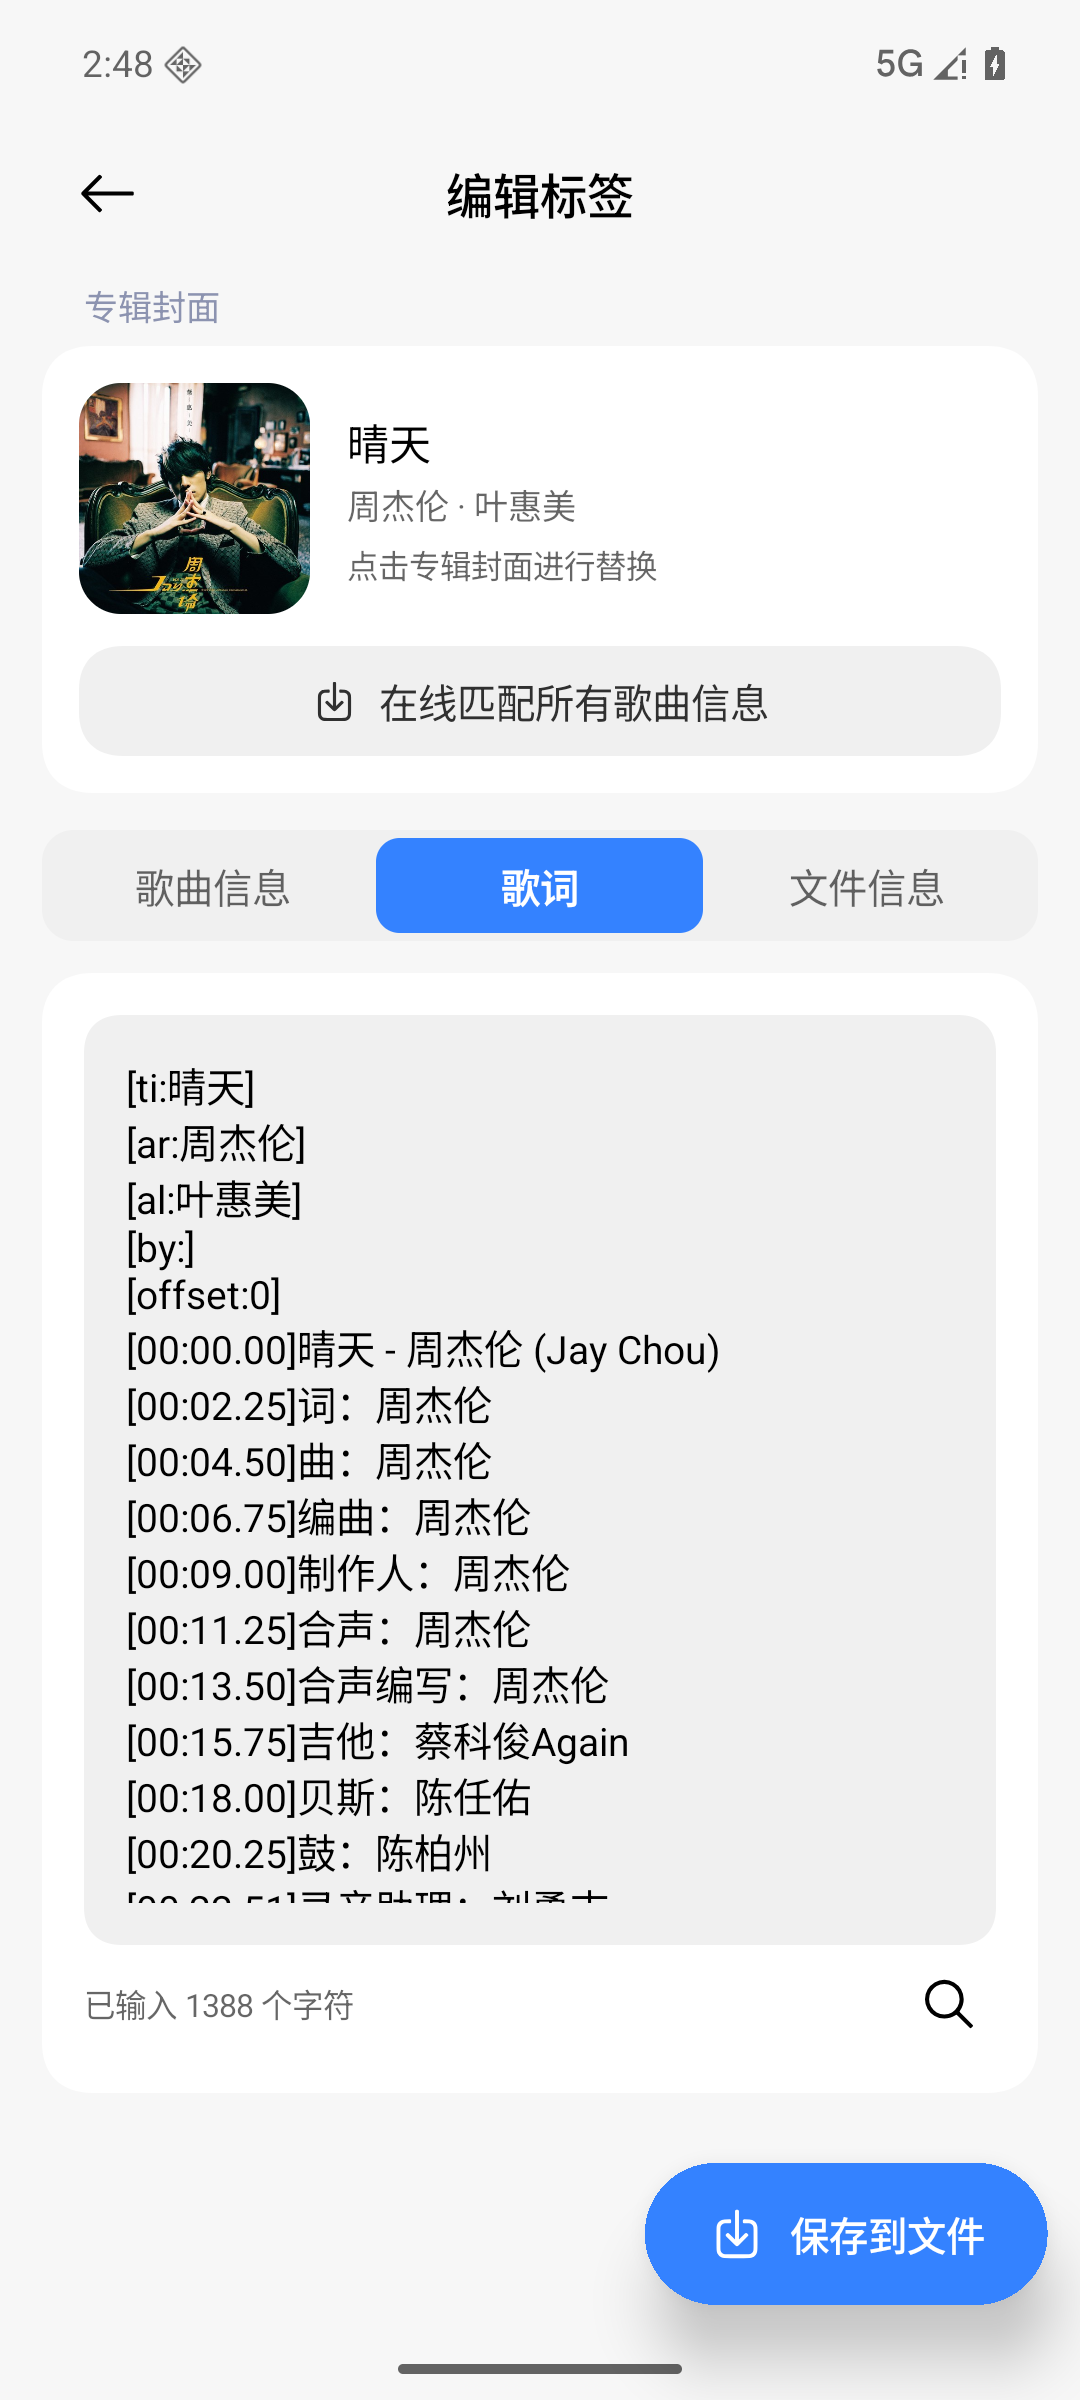
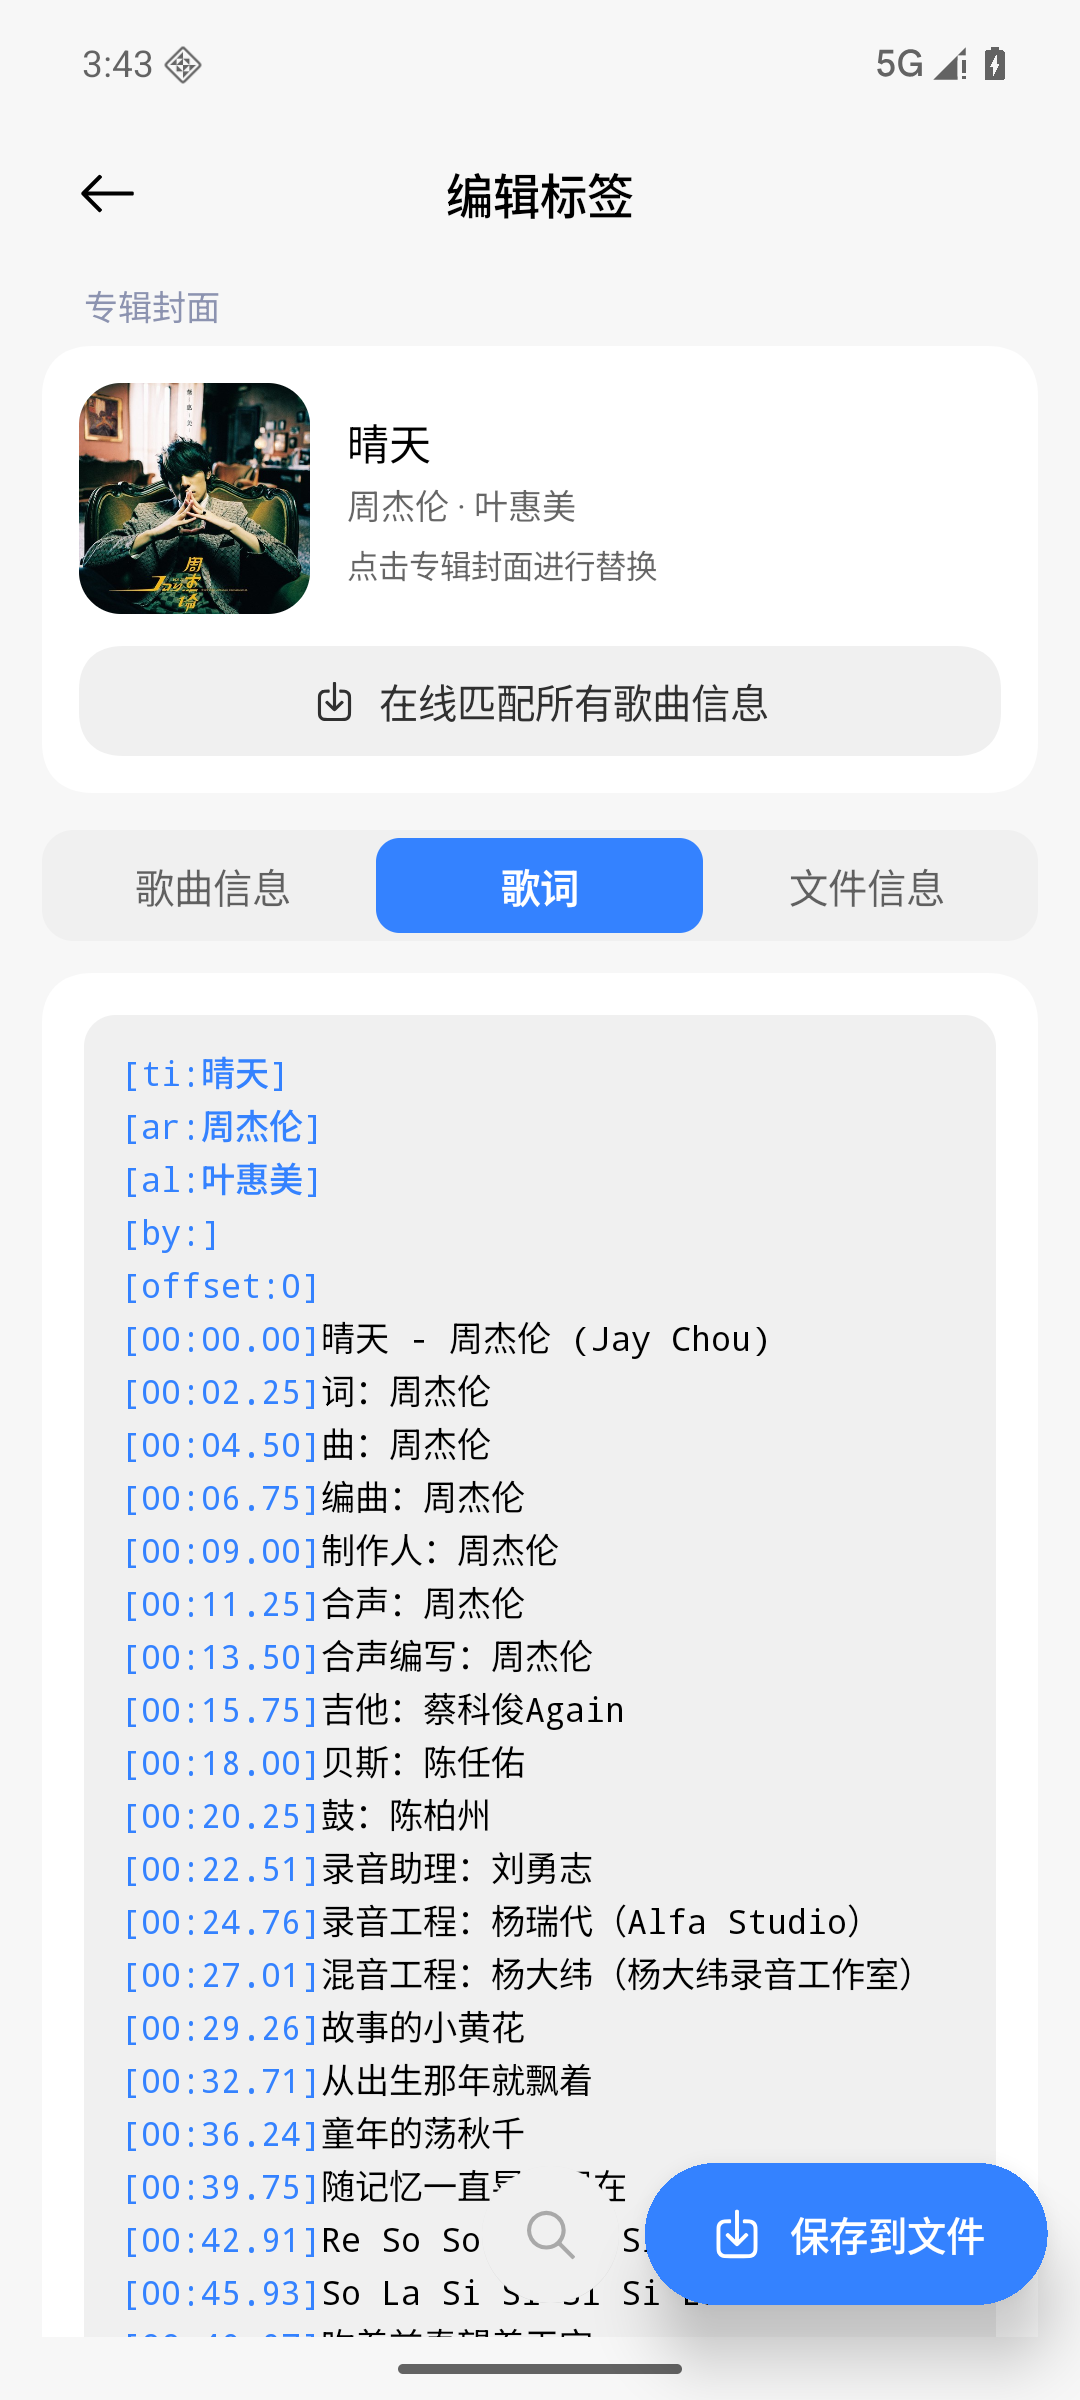
v1.2.0：歌词编辑器等宽高亮自动增高，搜索改为悬浮 FAB
- 歌词输入框改为自绘 BasicTextField：等宽字体、随行数自动增高、[] 内容高亮、聚焦描边
- 歌词 Tab 下保存 FAB 左侧新增圆形搜索 FAB，其他 Tab 隐藏
- 版本 1.2.0 / versionCode 3，更新截图、README、验证报告与发布说明

diff --git a/app/src/main/java/com/musictag/app/ui/editor/EditorScreen.kt b/app/src/main/java/com/musictag/app/ui/editor/EditorScreen.kt
@@ -1,4 +1,4 @@
-package com.musictag.app.ui.editor
+package com.musictag.app.ui.editor
 
 import android.graphics.Bitmap
 import android.net.Uri
@@ -20,6 +20,7 @@ import androidx.compose.foundation.layout.padding
 import androidx.compose.foundation.layout.size
 import androidx.compose.foundation.layout.width
 import androidx.compose.foundation.lazy.LazyColumn
+import androidx.compose.foundation.shape.CircleShape
 import androidx.compose.foundation.shape.RoundedCornerShape
 import androidx.compose.runtime.Composable
 import androidx.compose.runtime.LaunchedEffect
@@ -43,6 +44,7 @@ import com.musictag.app.ui.components.ArtworkCard
 import com.musictag.app.ui.components.ErrorState
 import com.musictag.app.ui.components.InfoRow
 import com.musictag.app.ui.components.LoadingState
+import com.musictag.app.ui.components.LyricsTextField
 import com.musictag.app.ui.components.MiuixExtendedFloatingActionButton
 import com.musictag.app.ui.components.MiuixSegmentedControl
 import com.musictag.app.ui.components.MusicTagTextField
@@ -60,6 +62,7 @@ import top.yukonga.miuix.kmp.basic.SmallTitle
 import top.yukonga.miuix.kmp.basic.SmallTopAppBar
 import top.yukonga.miuix.kmp.basic.SnackbarHost
 import top.yukonga.miuix.kmp.basic.SnackbarHostState
+import top.yukonga.miuix.kmp.basic.Surface
 import top.yukonga.miuix.kmp.basic.Text
 import top.yukonga.miuix.kmp.basic.TextButton
 import top.yukonga.miuix.kmp.overlay.OverlayDialog
@@ -151,18 +154,26 @@ fun EditorScreen(
         },
         floatingActionButton = {
             if (state.track != null) {
-                MiuixExtendedFloatingActionButton(
-                    text = if (state.saving) "保存中…" else "保存到文件",
-                    onClick = {
-                        if (state.hasChanges) {
-                            viewModel.save()
-                        } else {
-                            scope.launch { snackbarHostState.showSnackbar("没有需要保存的修改") }
-                        }
-                    },
-                    enabled = !state.saving,
-                    icon = MiuixIcons.Download,
-                )
+                Row(
+                    verticalAlignment = Alignment.CenterVertically,
+                    horizontalArrangement = Arrangement.spacedBy(10.dp),
+                ) {
+                    if (selectedTab == 1) {
+                        LyricsSearchFab(onClick = viewModel::openSearch)
+                    }
+                    MiuixExtendedFloatingActionButton(
+                        text = if (state.saving) "保存中…" else "保存到文件",
+                        onClick = {
+                            if (state.hasChanges) {
+                                viewModel.save()
+                            } else {
+                                scope.launch { snackbarHostState.showSnackbar("没有需要保存的修改") }
+                            }
+                        },
+                        enabled = !state.saving,
+                        icon = MiuixIcons.Download,
+                    )
+                }
             }
         },
         floatingActionButtonPosition = FabPosition.End,
@@ -319,37 +330,16 @@ fun EditorScreen(
 
                             1 -> item(key = "lyrics") {
                                 EditorTabCard {
-                                    MusicTagTextField(
+                                    LyricsTextField(
                                         value = state.fields.lyrics,
                                         onValueChange = { viewModel.updateField(EditorField.LYRICS, it) },
-                                        label = "歌词内容",
-                                        singleLine = false,
-                                        minLines = 8,
-                                        maxLines = 18,
-                                        hideLabel = true,
                                     )
-                                    Spacer(Modifier.height(4.dp))
-                                    Row(
-                                        modifier = Modifier.fillMaxWidth(),
-                                        verticalAlignment = Alignment.CenterVertically,
-                                    ) {
-                                        Text(
-                                            text = "已输入 ${state.fields.lyrics.length} 个字符",
-                                            style = MiuixTheme.textStyles.footnote1,
-                                            color = MiuixTheme.colorScheme.onSurfaceVariantSummary,
-                                            modifier = Modifier.weight(1f),
-                                        )
-                                        IconButton(
-                                            onClick = viewModel::openSearch,
-                                            modifier = Modifier.size(36.dp),
-                                        ) {
-                                            Icon(
-                                                MiuixIcons.Search,
-                                                contentDescription = "在线匹配歌词",
-                                                modifier = Modifier.size(22.dp),
-                                            )
-                                        }
-                                    }
+                                    Spacer(Modifier.height(6.dp))
+                                    Text(
+                                        text = "已输入 ${state.fields.lyrics.length} 个字符",
+                                        style = MiuixTheme.textStyles.footnote1,
+                                        color = MiuixTheme.colorScheme.onSurfaceVariantSummary,
+                                    )
                                 }
                             }
 
@@ -476,5 +466,28 @@ private fun EditorSection(
 private fun EditorTabCard(content: @Composable ColumnScope.() -> Unit) {
     Card(modifier = Modifier.fillMaxWidth(), cornerRadius = 16.dp) {
         Column(modifier = Modifier.padding(16.dp)) { content() }
+    }
+}
+
+/** Circular search FAB shown next to the save FAB while the lyrics tab is active. */
+@Composable
+private fun LyricsSearchFab(onClick: () -> Unit) {
+    Surface(
+        modifier = Modifier
+            .size(52.dp)
+            .clip(CircleShape)
+            .clickable(onClick = onClick),
+        shape = CircleShape,
+        color = MiuixTheme.colorScheme.secondaryContainer,
+        contentColor = MiuixTheme.colorScheme.onSecondaryContainer,
+        shadowElevation = 10.dp,
+    ) {
+        Box(modifier = Modifier.fillMaxSize(), contentAlignment = Alignment.Center) {
+            Icon(
+                imageVector = MiuixIcons.Search,
+                contentDescription = "在线匹配歌词",
+                modifier = Modifier.size(22.dp),
+            )
+        }
     }
 }

diff --git a/app/src/main/java/com/musictag/app/ui/components/Components.kt b/app/src/main/java/com/musictag/app/ui/components/Components.kt
@@ -1,4 +1,4 @@
-package com.musictag.app.ui.components
+package com.musictag.app.ui.components
 
 import android.graphics.Bitmap
 import androidx.annotation.DrawableRes
@@ -6,7 +6,10 @@ import androidx.compose.animation.core.Animatable
 import androidx.compose.animation.core.tween
 import androidx.compose.foundation.Image
 import androidx.compose.foundation.background
+import androidx.compose.foundation.border
 import androidx.compose.foundation.clickable
+import androidx.compose.foundation.interaction.MutableInteractionSource
+import androidx.compose.foundation.interaction.collectIsFocusedAsState
 import androidx.compose.foundation.layout.Arrangement
 import androidx.compose.foundation.layout.Box
 import androidx.compose.foundation.layout.Column
@@ -40,10 +43,18 @@ import androidx.compose.ui.graphics.graphicsLayer
 import androidx.compose.ui.layout.ContentScale
 import androidx.compose.ui.platform.LocalDensity
 import androidx.compose.ui.res.painterResource
+import androidx.compose.ui.text.AnnotatedString
+import androidx.compose.ui.text.SpanStyle
+import androidx.compose.ui.text.TextStyle
+import androidx.compose.ui.text.font.FontFamily
 import androidx.compose.ui.text.font.FontWeight
+import androidx.compose.ui.text.input.OffsetMapping
+import androidx.compose.ui.text.input.TransformedText
+import androidx.compose.ui.text.input.VisualTransformation
 import androidx.compose.ui.text.style.TextAlign
 import androidx.compose.ui.unit.Dp
 import androidx.compose.ui.unit.dp
+import androidx.compose.ui.unit.sp
 import com.musictag.app.R
 import com.musictag.app.data.NetworkImageLoader
 import top.yukonga.miuix.kmp.basic.BasicComponent
@@ -370,6 +381,67 @@ fun MusicTagTextField(
         backgroundColor = MiuixTheme.colorScheme.secondaryContainer,
         textStyle = MiuixTheme.textStyles.body1,
     )
+}
+
+/**
+ * Auto-growing lyrics editor: monospace text like a log/code panel, with every
+ * `[...]` segment (LRC timestamps and metadata) tinted with the accent color.
+ * It has no fixed height and expands as lines are added.
+ */
+@Composable
+fun LyricsTextField(
+    value: String,
+    onValueChange: (String) -> Unit,
+    modifier: Modifier = Modifier,
+) {
+    val tagColor = MiuixTheme.colorScheme.primary
+    val textColor = MiuixTheme.colorScheme.onSurface
+    val transformation = remember(tagColor) { LyricsTagTransformation(tagColor) }
+    val interactionSource = remember { MutableInteractionSource() }
+    val focused by interactionSource.collectIsFocusedAsState()
+    val shape = RoundedCornerShape(12.dp)
+    BasicTextField(
+        value = value,
+        onValueChange = onValueChange,
+        modifier = modifier
+            .fillMaxWidth()
+            .clip(shape)
+            .background(MiuixTheme.colorScheme.secondaryContainer)
+            .border(
+                width = 1.dp,
+                color = if (focused) MiuixTheme.colorScheme.primary else Color.Transparent,
+                shape = shape,
+            )
+            .padding(horizontal = 14.dp, vertical = 12.dp),
+        textStyle = TextStyle(
+            fontFamily = FontFamily.Monospace,
+            fontSize = 13.sp,
+            lineHeight = 20.sp,
+            color = textColor,
+        ),
+        cursorBrush = SolidColor(MiuixTheme.colorScheme.primary),
+        visualTransformation = transformation,
+        minLines = 6,
+        maxLines = Int.MAX_VALUE,
+        interactionSource = interactionSource,
+    )
+}
+
+private class LyricsTagTransformation(private val tagColor: Color) : VisualTransformation {
+    private val tagRegex = Regex("\\[[^\\]\\n]*\\]")
+
+    override fun filter(text: AnnotatedString): TransformedText {
+        val highlighted = AnnotatedString.Builder(text.text).apply {
+            tagRegex.findAll(text.text).forEach { match ->
+                addStyle(
+                    SpanStyle(color = tagColor, fontWeight = FontWeight.Medium),
+                    match.range.first,
+                    match.range.last + 1,
+                )
+            }
+        }.toAnnotatedString()
+        return TransformedText(highlighted, OffsetMapping.Identity)
+    }
 }
 
 /**

diff --git a/docs/RELEASE_NOTES-v1.2.0.md b/docs/RELEASE_NOTES-v1.2.0.md
@@ -1,0 +1,40 @@
+# 音签 MusicTagger v1.2.0
+
+第三个公开版本：**歌词编辑器重做 + 悬浮搜索按钮**。
+
+## 下载
+
+- `MusicTagger-v1.2.0.apk`（R8 压缩 + 资源裁剪，约 **1.5 MB**）
[1 lines of base64/hex data omitted]
+- 系统要求：Android 8.0（API 26）及以上；动态取色需 Android 12+
+
+## 更新内容
+
+### 歌词 Tab
+
+- 歌词输入框改为**自动增高**：不再固定行数/高度，文本行越多输入框越高，滚动页面即可查看。
+- 输入框使用**等宽字体**（Monospace），像日志 / 代码框一样对齐。
+- 对 `[...]` 内的内容（LRC 时间轴、`[ti:]`、`[ar:]` 等元数据）进行**强调色高亮**。
+- 输入框获得焦点时显示 1dp 强调色描边；未聚焦时为中性圆角背景。
+
+### 悬浮搜索按钮
+
+- 切换到「歌词」Tab 时，右下角保存 FAB 左侧出现一个**圆形搜索 FAB**，点击直接打开在线匹配；
+  其他 Tab 不显示，避免拥挤。
+- 「在线匹配所有歌曲信息」仍保持中性灰底按钮（不在页面里堆叠过多强调色）。
+
+## 质量
+
+- 154 个 `:core` 单元测试通过。
+- release APK 已在 API 36 模拟器安装，歌词 Tab、悬浮搜索按钮、保存流程正常。
+- 截图见仓库 `docs/screenshots/`。
+
+## 已知限制
+
+- Spotify 源仍未接入：官方 Web API 需 OAuth 且无歌词接口，匿名 token 接口被 403 拒绝。
+- 在线接口为非官方公开接口，可能随服务端调整失效；支持自建 NeteaseCloudMusicApi。
+- release 目前使用 debug 签名，便于直接安装。
+
+## 开源
+
+Apache License 2.0。项目地址：<https://github.com/Kastorice/MusicTagger>

diff --git a/docs/TEST-REPORT.md b/docs/TEST-REPORT.md
@@ -196,11 +196,24 @@ MIUI UI 专项验证（均为真机/模拟器截图确认）：
   （`title=晴天1`），`ffmpeg` 解码退出 0；随后恢复测试素材。
 - R8 输出 Kotlin metadata 解析警告（Kotlin 2.3.20 高于 R8 内置版本），运行时功能已验证正常。
 
+### 第八轮 v1.2.0（2026-11-14）
+
+- 歌词输入框由 MiuiX `TextField` 改为自绘 `BasicTextField`：
+  - `minLines = 6`、`maxLines = Int.MAX_VALUE`、无固定高度，随歌词行数自动增高；
+  - `FontFamily.Monospace` 等宽字体，13sp / 20sp 行高；
+  - `VisualTransformation` 将 `[...]`（LRC 时间轴与 `[ti:]` / `[ar:]` 等）着色为强调色；
+  - 聚焦时 1dp 强调色描边，未聚焦为中性圆角背景。
+- 切到歌词 Tab 时，保存 FAB 左侧出现 52dp 圆形搜索 FAB（次级灰底 + 阴影），
+  点击打开在线匹配；离开歌词 Tab 自动隐藏。歌词卡片底部仅保留字符数。
+- 验证：debug/release 均编译通过；release APK 在 API 36 模拟器打开歌词 Tab 正常，
+  搜索 FAB 位于保存 FAB 左侧（desc=在线匹配歌词，bounds 522–580/2206–2264），无崩溃。
+- 版本 `versionCode 3` / `versionName 1.2.0`。
+
 ## 3. 构建产物
 
 - `app/build/outputs/apk/release/app-release.apk`（约 **1.5 MB**，R8 压缩、资源裁剪，debug 签名）
 - `app/build/outputs/apk/debug/app-debug.apk`（约 11 MB，供开发调试）
-- `dist/MusicTagger-v1.1.0.apk`（交付副本，SHA-256 见 `dist/SHA256.txt`）
+- `dist/MusicTagger-v1.2.0.apk`（交付副本，SHA-256 见 `dist/SHA256.txt`）
 
 ## 4. 复现步骤
 
